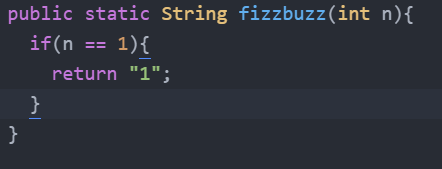
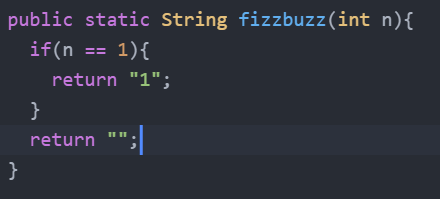
Added test 2, not working

diff --git a/lab04/fizzbuss_java/test/fizzbuzzJavaTest.java b/lab04/fizzbuss_java/test/fizzbuzzJavaTest.java
@@ -11,4 +11,10 @@ class fizzbuzzJavaTest{
     assertEquals("1", fizz.fizzbuzz(1));
   }
 
+  @Test
+  void fizzbuzzTest2(){
+    fizzbuzz_java fizz = new fizzbuzz_java();
+    assertEquals("2", fizz.fizzbuzz(2));
+  }
+
 }

diff --git a/lab04/fizzbuss_java/src/fizzbuzz_java.java b/lab04/fizzbuss_java/src/fizzbuzz_java.java
@@ -4,6 +4,7 @@ class fizzbuzz_java{
     if(n == 1){
       return "1";
     }
+    return "";
   }
 
 }
